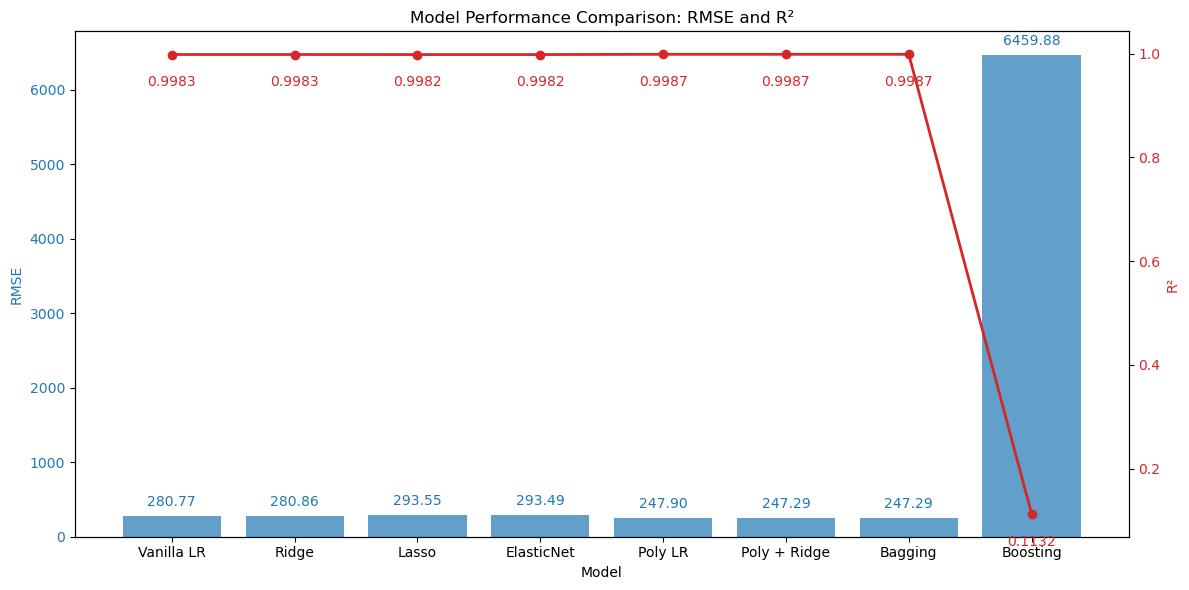
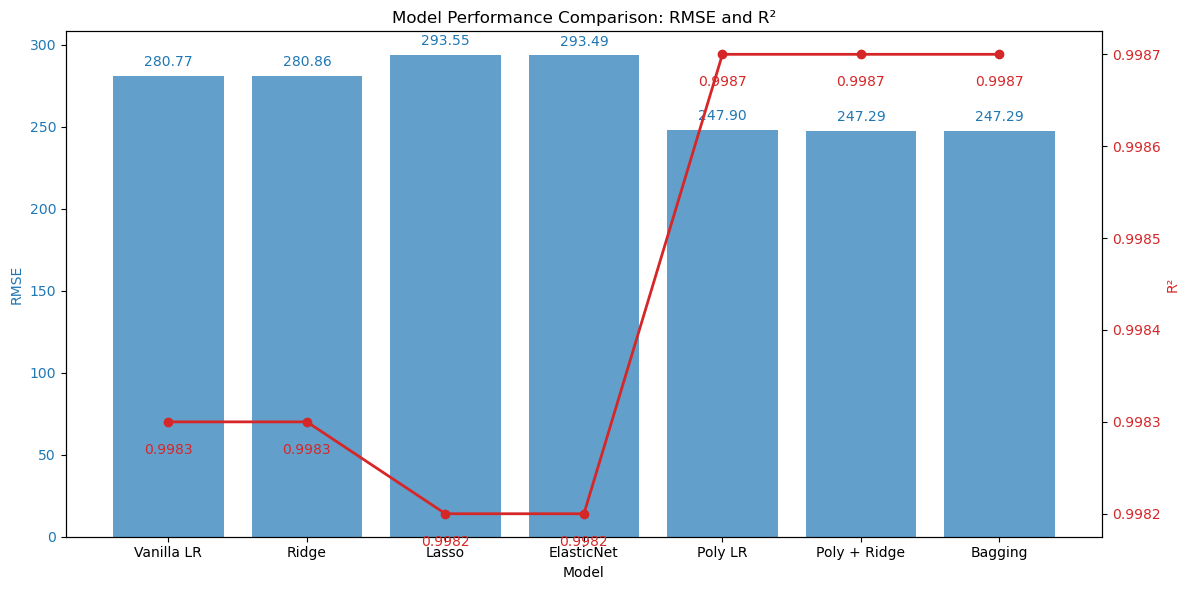
Minor Revision to the README

diff --git a/README.md b/README.md
@@ -224,8 +224,7 @@ To find the overall best performance among different adapted linear regression m
 - **Bagging Ensemble of Linear Regression Models** 
 - **Boosting with Linear Base Learners**
 
-![LR Model Performance Comparison](docs/images/LR1_models_results.png)
-![LR Model Performance Comparison Without Boosting](docs/images/LR2_models_results.png)
+![LR Model Performance Comparison Without Boosting](docs/images/LR1_models_results.png)
 
 Our dataset exhibits strong linear correlations, making linear regression a highly effective modeling choice compared other modeling methods we tried. 
 
